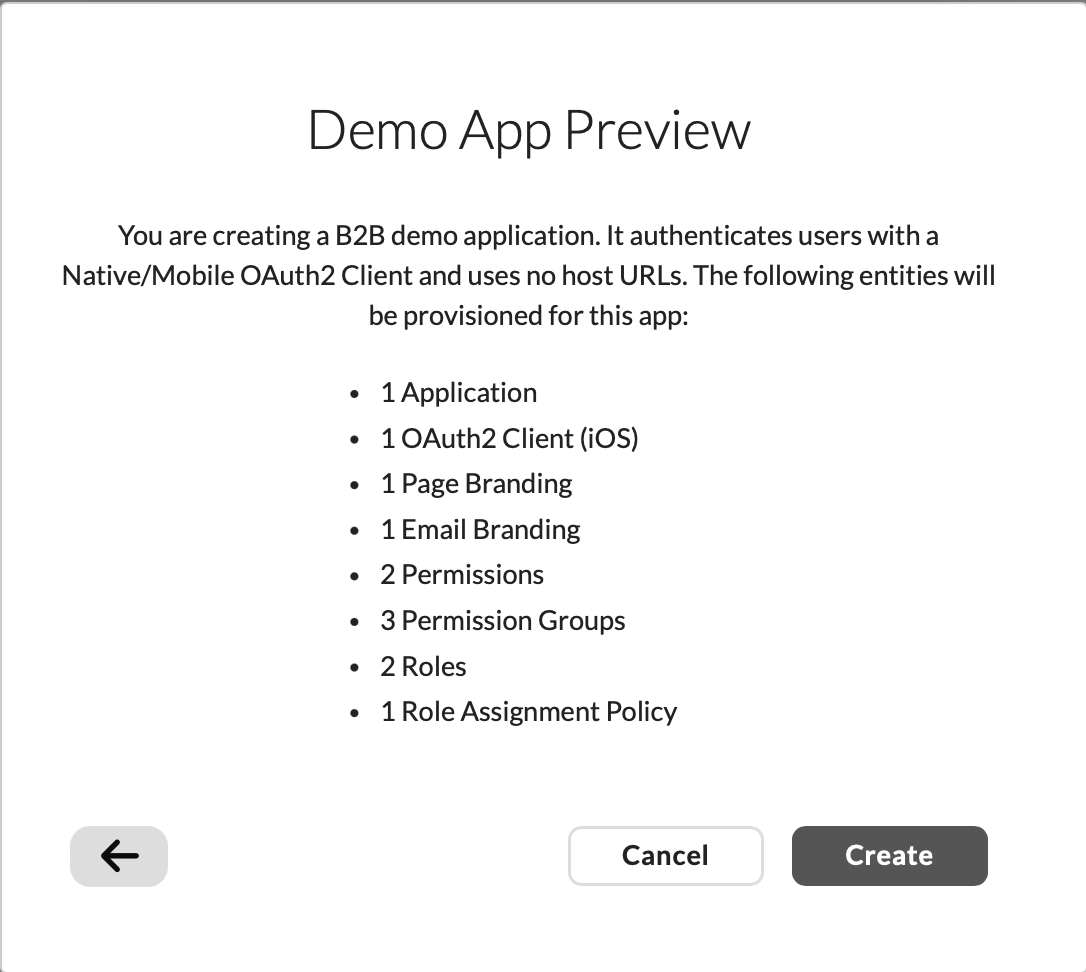
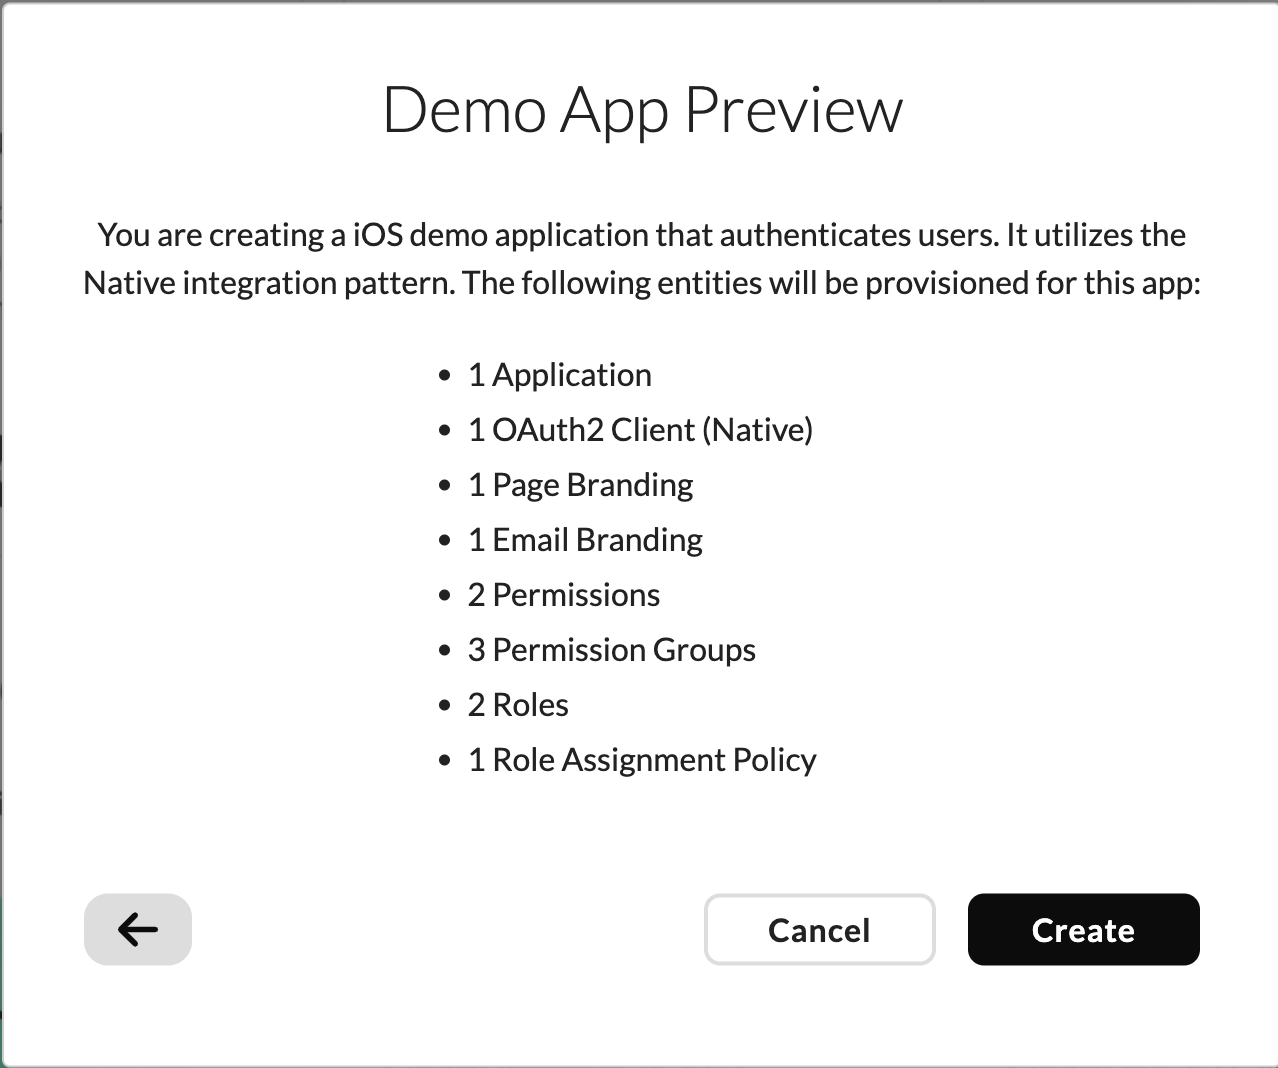
Update README

diff --git a/README.md b/README.md
@@ -26,25 +26,20 @@
 
 ## Configure Wristband Demo App Dashboard
 
-1. **Choose Subject to Authenticate**: Humans
+You can follow the [Demo App Guide](https://docs.wristband.dev/docs/setting-up-a-demo-app) for more information.
+
+1. **Choose Subject to Authenticate -> Humans**
 ![Clone Repository](readme-images/choose_subject_to_authenticate.png)
 
-<br>
+2. **Choose Application Framework -> iOS**
+![Clone Repository](readme-images/select_ios_framework.png)
 
-2. **Select Client Type**: iOS
-![Clone Repository](readme-images/select_client_type.png)
-
-<br>
-
-3. **Choose URL Type**: Custom Scheme / No Host
-![Clone Repository](readme-images/choose_url_type.png)
-
-<br>
-
-4. **Demo App Preview**: Create
+3. **Demo App Preview**
 ![Clone Repository](readme-images/demo_app_preview.png)
 
-<br>
+4. **Copy Info.plist Values**
+![Clone Repository](readme-images/copy_values.png)
+
 
 ## Clone GitHub Repo
 
@@ -52,7 +47,7 @@
    If you haven't yet installed Xcode, follow these instructions: [Install Xcode](https://developer.apple.com/xcode/)
 
 2. **Clone GitHub Repository**  
-   Clone the repository from the following link: [Wristband B2B iOS Demo App](https://github.com/wristband-dev/b2b-ios-demo-app.git)
+   Clone the repository from the following link: [Wristband iOS Demo App](https://github.com/wristband-dev/ios-demo-app.git)
    ![Clone Repository](readme-images/xcode.png)
 
 3. **Add Values to Info.plist**  
@@ -72,6 +67,6 @@
 
 ## Questions
 
-Reach out to the Wristband team at <support@wristband.dev> for any questions regarding this script.
+Reach out to the Wristband team at <support@wristband.dev> for any questions regarding this demo app.
 
 <br/>
